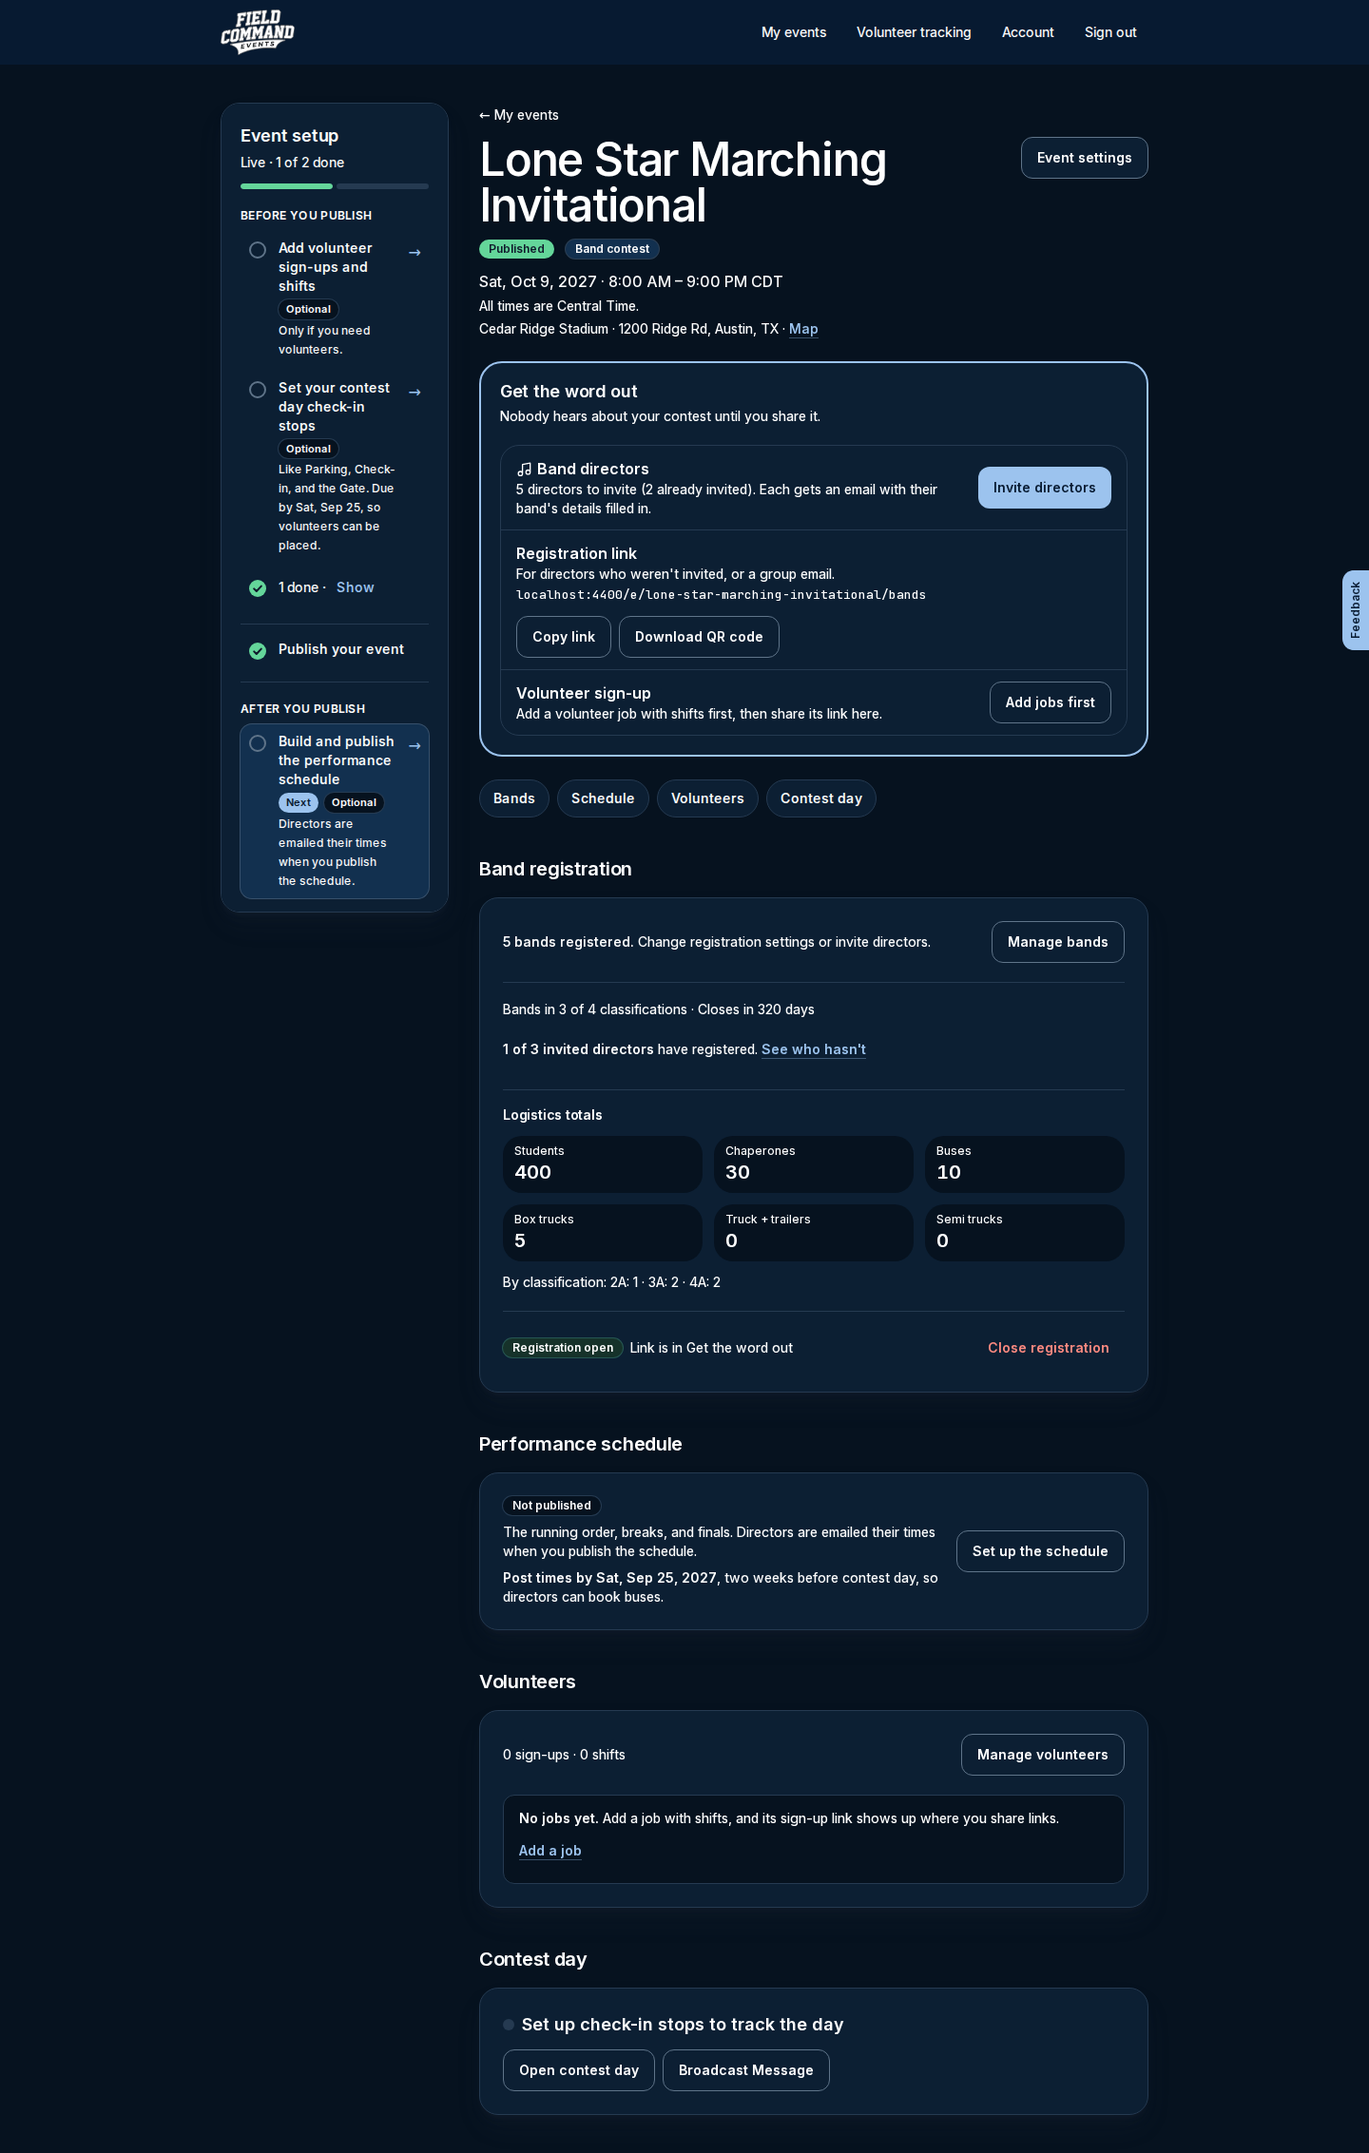
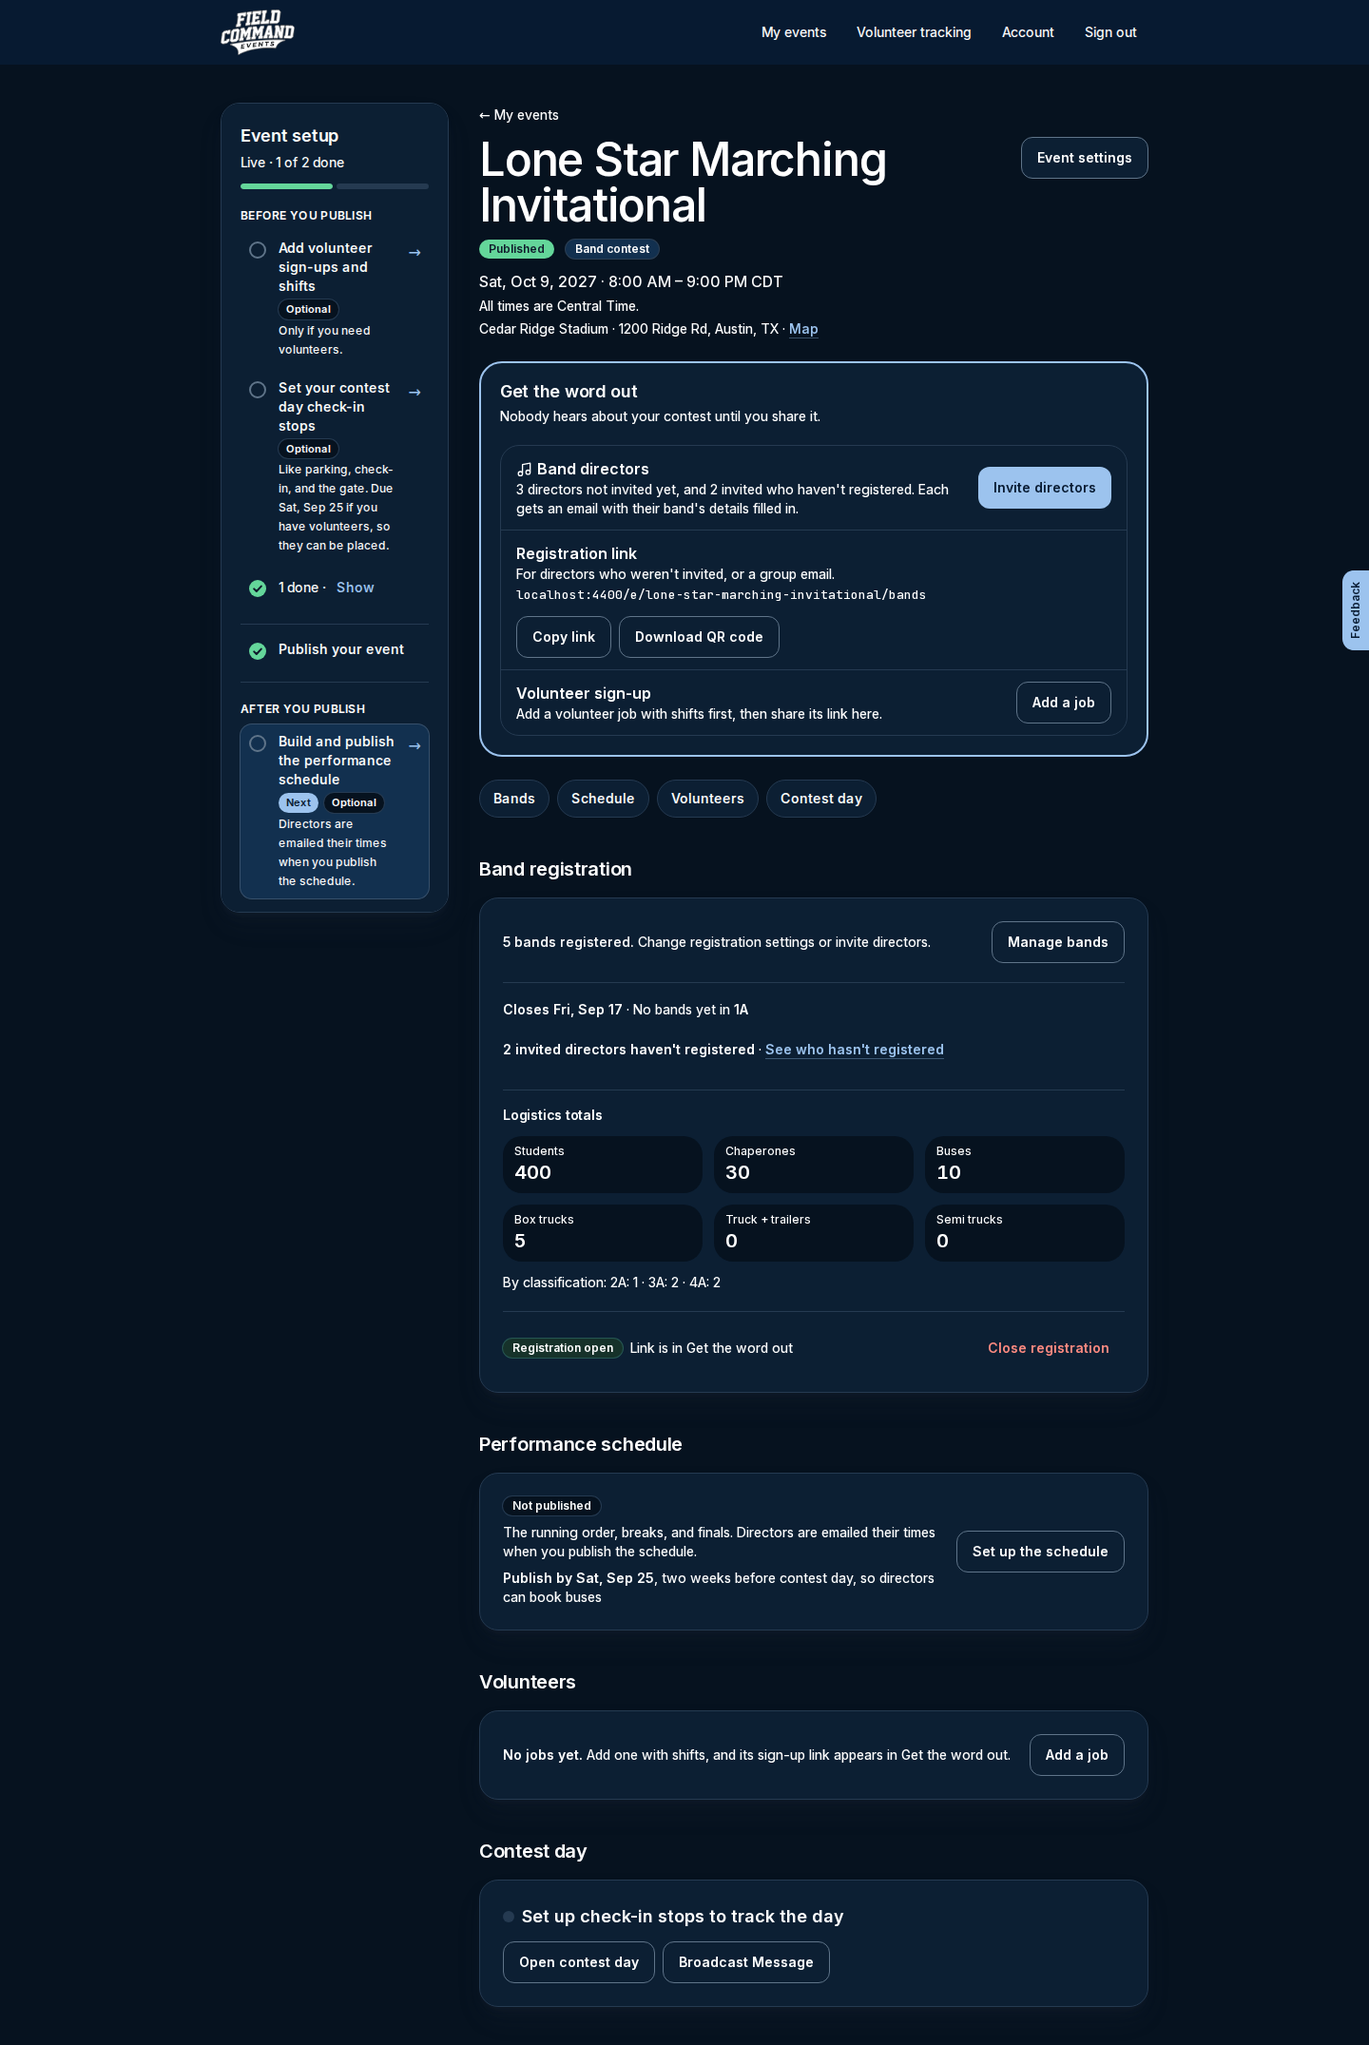
Event page light-check fixes: one invited count, named empty classification, closing date, Publish by, check-in due wording, Volunteers Add a job
Claude-Session: https://claude.ai/code/session_012QSAnYf9D3RQG6GMrYDPnP

diff --git a/src/app/dashboard/events/[eventId]/page.tsx b/src/app/dashboard/events/[eventId]/page.tsx
@@ -366,6 +366,20 @@ export default async function EventPage({ params, searchParams }: PageProps<"/da
   const contestLive = published && event.event_type === "band_contest" && access.isHost;
   const inviteable = contestLive ? await countInviteable(eventId) : null;
   const regLater = contestLive && event.band_registration_open && opensLater(event) ? event.band_registration_opens_on : null;
+  // The registration card's facts for a live contest (none when there's nothing to say).
+  const regFacts = (() => {
+    if (!contestLive || !inviteable) return null;
+    const classes = (event.classifications ?? []) as string[];
+    const empty = classes.filter((c) => !bands.some((b) => b.classification === c));
+    const closing = event.band_registration_deadline && (registrationIsOpen(event) || regLater) ? closesOn(event.band_registration_deadline, today) : null;
+    const classLine =
+      bands.length > 0 && classes.length > 1
+        ? empty.length
+          ? <>No {words.many} yet in <span className="font-semibold">{listAnd(empty)}</span></>
+          : `${words.Many} in every classification`
+        : null;
+    return closing || classLine || inviteable.waiting ? { closing, classLine, waiting: inviteable.waiting } : null;
+  })();
   const daysToGo = Math.round((Date.parse(event.starts_on) - Date.parse(today)) / 864e5);
   const words2 = leadWords(event.event_type);
 
@@ -677,7 +691,9 @@ export default async function EventPage({ params, searchParams }: PageProps<"/da
               {access.isHost
                 ? event.event_type === "band_contest"
                   ? published
-                    ? "Change registration settings or invite directors."
+                    ? registrationIsOpen(event) || regLater
+                      ? "Change registration settings or invite directors."
+                      : "Change registration settings."
                     : setup?.registrationOpensOn
                       ? `Registration opens ${formatDate(setup.registrationOpensOn, { year: undefined })}.`
                       : "Registration opens when you publish."
@@ -700,32 +716,30 @@ export default async function EventPage({ params, searchParams }: PageProps<"/da
             )}
           </div>
         </div>
-        {contestLive && inviteable && (
-          // A live contest's registration at a glance: where bands are, when it closes, and who hasn't answered.
+        {regFacts && (
+          // A live contest's registration at a glance: when it closes, where bands are missing, and who hasn't answered.
           <div className="space-y-2 border-t border-border pt-4 text-sm leading-6">
-            <p>
-              {[
-                (event.classifications ?? []).length
-                  ? `Bands in ${new Set(bands.map((b) => b.classification)).size} of ${(event.classifications ?? []).length} classifications`
-                  : null,
-                registrationIsOpen(event) && event.band_registration_deadline ? closesIn(event.band_registration_deadline, today) : null,
-              ]
-                .filter(Boolean)
-                .join(" · ")}
-            </p>
-            {inviteable.sent > 0 && (
+            {(regFacts.closing || regFacts.classLine) && (
+              <p>
+                {regFacts.closing && <span className="font-semibold">{regFacts.closing}</span>}
+                {regFacts.closing && regFacts.classLine && " · "}
+                {regFacts.classLine}
+              </p>
+            )}
+            {regFacts.waiting > 0 && (
               <p>
                 <span className="font-semibold">
-                  {inviteable.sentRegistered} of {inviteable.sent} invited directors
-                </span>{" "}
-                have registered.
-                {inviteable.sent > inviteable.sentRegistered && (
+                  {regFacts.waiting} invited {regFacts.waiting === 1 ? "director hasn't" : "directors haven't"} registered
+                </span>
+                {registrationIsOpen(event) ? (
                   <>
-                    {" "}
+                    {" · "}
                     <Link href={`/dashboard/events/${eventId}/bands?tab=invite`} className="inline-flex min-h-11 items-center font-semibold text-brand underline underline-offset-4">
-                      See who hasn&apos;t
+                      See who hasn&apos;t registered
                     </Link>
                   </>
+                ) : regLater ? null : (
+                  <span className="text-muted"> · Reopen registration to remind them</span>
                 )}
               </p>
             )}
@@ -787,8 +801,8 @@ export default async function EventPage({ params, searchParams }: PageProps<"/da
             {event.event_type === "band_contest" && published && !event.performance_order_published && !past && (
               // When to post times by, and why: directors book buses from them.
               <span className="basis-full text-sm">
-                <span className="font-semibold">Post times by {formatDate(twoWeeksBefore(event.starts_on))}</span>
-                <span className="text-muted">, two weeks before contest day, so directors can book buses.</span>
+                <span className="font-semibold">Publish by {formatDate(twoWeeksBefore(event.starts_on), { year: undefined })}</span>
+                <span className="text-muted">, two weeks before contest day, so directors can book buses</span>
               </span>
             )}
           </div>
@@ -801,6 +815,8 @@ export default async function EventPage({ params, searchParams }: PageProps<"/da
 
   // A published volunteer event's jobs with no shift or thing to bring (hosts only, from the setup facts).
   const liveEmpty = published && event.event_type === "volunteer" ? (setup?.emptyJobs ?? []) : [];
+  // A published event with no volunteer jobs at all: the card's button becomes "Add a job".
+  const noJobsYet = published && stations.length === 0;
   const volunteers =
     access.canManage && !conferenceHere ? (
       <PageSection id="volunteers" title="Volunteers">
@@ -813,14 +829,23 @@ export default async function EventPage({ params, searchParams }: PageProps<"/da
                   {!published ? "Event not published" : event.volunteer_signup_open ? "Sign-up open" : "Sign-up closed"}
                 </Badge>
               )}
+              {!noJobsYet && (
               <span className="text-sm text-muted">
                 {event.event_type === "volunteer"
                   ? `${stations.length} ${stations.length === 1 ? "job" : "jobs"}${liveEmpty.length ? ` · ${liveEmpty.length} not on the sign-up page yet` : ""}`
                   : `${stations.length} sign-up${stations.length === 1 ? "" : "s"} · ${(shifts ?? []).length} shift${(shifts ?? []).length === 1 ? "" : "s"}`}
               </span>
+              )}
+              {noJobsYet && (
+                // Nothing to sign up for yet: say so, not "Sign-up open" or a row of zeros.
+                <p className="text-sm leading-6">
+                  <span className="font-semibold">No jobs yet.</span>{" "}
+                  <span className="text-muted">Add one with shifts, and its sign-up link appears in {contestLive ? "Get the word out" : "Links to share"}.</span>
+                </p>
+              )}
             </div>
             <Link href={`/dashboard/events/${eventId}/volunteering`} className={BTN_OUTLINE}>
-              {event.event_type === "volunteer" ? "Jobs and shifts" : "Manage volunteers"}
+              {noJobsYet ? "Add a job" : event.event_type === "volunteer" ? "Jobs and shifts" : "Manage volunteers"}
             </Link>
           </div>
           {/* Live, with a job nobody can sign up for yet: say so where the organizer checks in, with the fix. */}
@@ -845,16 +870,7 @@ export default async function EventPage({ params, searchParams }: PageProps<"/da
               </ul>
             </div>
           )}
-          {stations.length === 0 && published ? (
-            // Nothing to sign up for yet: say so, not "Sign-up open".
-            <p className="rounded-md border border-border bg-background px-4 py-3 text-sm leading-6">
-              <span className="font-semibold">No jobs yet.</span>{" "}
-              <span className="text-muted">Add a job with shifts, and its sign-up link shows up where you share links.</span>{" "}
-              <Link href={`/dashboard/events/${eventId}/volunteering`} className="inline-flex min-h-11 items-center font-semibold text-brand underline underline-offset-4">
-                Add a job
-              </Link>
-            </p>
-          ) : (
+          {!noJobsYet && (
           <VolunteerStats
             filled={signedUp}
             capacity={totalSlots}
@@ -1276,16 +1292,16 @@ async function countInviteable(eventId: string) {
       ...((imported ?? []) as { email: string }[]).map((p) => p.email.toLowerCase()),
     ].filter((e) => !registered.has(e)),
   );
-  // Invited, of the people who can still be invited (one who registered isn't counted).
-  const invitedHere = ((invited ?? []) as { email: string }[]).filter((i) => people.has(i.email.toLowerCase())).length;
-  // Of the directors actually emailed, how many have registered since.
-  const sentTo = ((invited ?? []) as { email: string; sent_at: string | null }[]).filter((i) => i.sent_at).map((i) => i.email.toLowerCase());
+  const rows = (invited ?? []) as { email: string; sent_at: string | null }[];
+  const hasInvite = new Set(rows.map((i) => i.email.toLowerCase()));
+  // One count, used by both cards: directors emailed an invitation who haven't registered yet.
+  const waiting = new Set(rows.filter((i) => i.sent_at && !registered.has(i.email.toLowerCase())).map((i) => i.email.toLowerCase())).size;
   return {
     people: people.size,
-    invited: invitedHere,
+    /** Can be invited and haven't been (an invitation waiting for opening day counts as invited). */
+    notInvited: [...people].filter((e) => !hasInvite.has(e)).length,
+    waiting,
     earlier: ((past ?? []) as unknown[]).length,
-    sent: sentTo.length,
-    sentRegistered: sentTo.filter((e) => registered.has(e)).length,
   };
 }
 
@@ -1311,7 +1327,7 @@ function GetTheWordOut({
   slug: string;
   rows: ShareRow[];
   qrs: (string | null)[];
-  inviteable: { people: number; invited: number; earlier: number; sent: number; sentRegistered: number };
+  inviteable: { people: number; notInvited: number; waiting: number; earlier: number };
   opensOn: string | null;
   justPublished: boolean;
   deadline: string | null;
@@ -1375,7 +1391,7 @@ function GetTheWordOut({
                     ? `Choose directors now, and their invitations go out on ${short(opensOn)}, when registration opens.`
                     : `Have last year's director list? Import it now, and invitations go out on ${short(opensOn)}.`
                   : inviteable.people > 0
-                    ? `${inviteable.people} ${inviteable.people === 1 ? "director" : "directors"} to invite${inviteable.invited ? ` (${inviteable.invited} already invited)` : ""}. Each gets an email with their band's details filled in.`
+                    ? `${inviteable.notInvited} ${inviteable.notInvited === 1 ? "director" : "directors"} not invited yet${inviteable.waiting ? `, and ${inviteable.waiting} invited who haven't registered` : ""}. Each gets an email with their band's details filled in.`
                     : "Have last year's director list? Import it from a spreadsheet, then invite everyone at once."}
               </p>
             </div>
@@ -1395,7 +1411,7 @@ function GetTheWordOut({
                 <p className="text-sm text-muted">Add a volunteer job with shifts first, then share its link here.</p>
               </div>
               <Link href={`${base}/volunteering`} className={`${linkClass} shrink-0`}>
-                Add jobs first
+                Add a job
               </Link>
             </li>
           )}
@@ -1406,10 +1422,16 @@ function GetTheWordOut({
   );
 }
 
-/** "Closes in 9 days" (or today, or tomorrow), from the deadline day in the event's time zone. */
-function closesIn(deadline: string, today: string) {
+/** "Closes Sat, Aug 28", or in the last two weeks "Closes in 9 days" (or today, or tomorrow), in the event's time zone. */
+function closesOn(deadline: string, today: string) {
   const days = Math.round((Date.parse(deadline) - Date.parse(today)) / 864e5);
+  if (days > 14) return `Closes ${formatDate(deadline, { year: undefined })}`;
   return days <= 0 ? "Closes at the end of today" : days === 1 ? "Closes at the end of tomorrow" : `Closes in ${days} days`;
+}
+
+/** "5A", "4A and 5A", "3A, 4A, and 5A". */
+function listAnd(items: string[]) {
+  return items.length < 3 ? items.join(" and ") : `${items.slice(0, -1).join(", ")}, and ${items[items.length - 1]}`;
 }
 
 type ShareRow = {

diff --git a/src/lib/setup-checklist.ts b/src/lib/setup-checklist.ts
@@ -180,8 +180,8 @@ export function setupChecklist(f: SetupFacts): SetupChecklist {
         id: "check-in",
         label: "Set your contest day check-in stops",
         hint: f.startsOn
-          ? `Like Parking, Check-in, and the Gate. Due by ${formatDate(twoWeeksBefore(f.startsOn), { year: undefined })}, so volunteers can be placed.`
-          : "Like Parking, Check-in, and the Gate.",
+          ? `Like parking, check-in, and the gate. Due ${formatDate(twoWeeksBefore(f.startsOn), { year: undefined })} if you have volunteers, so they can be placed.`
+          : "Like parking, check-in, and the gate.",
         href: `${base}/volunteering`,
         done: f.checkInStops > 0,
         required: false,

diff --git a/docs/design-decisions/2026-10-30-band-contest-mockups.md b/docs/design-decisions/2026-10-30-band-contest-mockups.md
@@ -41,3 +41,19 @@ Review: docs/design-reviews/2026-10-30-band-contest-mockups-v2.md
 | # | Finding | Severity | Decision | Notes |
 |---|---|---|---|---|
 | — | Band contests' event page as a separate stage-bar dashboard (stage bar, one main card, "Before contest day", "Your contest" grid) | — | Fix it differently | Owner: one dashboard for every event type. Band contests keep the shared event page; the mock-ups' useful facts (registration counts, invited who haven't registered, "post times by" with the reason, check-in stops due date) go into the existing cards and checklist. Supersedes decisions 5 and light-check 1 above for the event page layout |
+
+## PR3 light check (2026-11-03)
+
+Review: Content Manager, UX Designer, UI Designer, and the usability consultant, on the screenshots in
+docs/design-reviews/2026-11-03-band-pr3/ (open, closed, and opens-later states).
+
+| # | Finding | Severity | Decision | Notes |
+|---|---|---|---|---|
+| 1 | Invited counts disagree between Get the word out and Band registration | 3 | Take the advice | One count from one helper: "N invited directors haven't registered". Get the word out says "N not invited yet, and N invited who haven't registered" |
+| — | "See who hasn't" and "invite directors" while registration is closed | 2 | Take the advice | Closed: "Reopen registration to remind them", and the summary drops "or invite directors" |
+| — | "Bands in 3 of 4 classifications" doesn't name the empty one | 2 | Take the advice | "No bands yet in 1A"; hidden with no bands or one classification |
+| — | "Closes in 320 days" | 2 | Take the advice | "Closes Fri, Sep 17", bold; "Closes in N days" only in the last two weeks; shown in the opens-later state too |
+| — | "Post times by …, 2027" | 2 | Take the advice | "Publish by Sat, Sep 25, two weeks before contest day, so directors can book buses" |
+| — | Check-in stops step: "Optional" next to "Due by" | 2 | Take the advice | "Like parking, check-in, and the gate. Due Sat, Sep 25 if you have volunteers, so they can be placed." |
+| — | Volunteers card says "no jobs" twice; inline "Add a job" easy to miss; box inside a card | 1–2 | Take the advice | No zero-count line; "No jobs yet" sentence; the card's button becomes "Add a job"; no nested box |
+| — | "Add jobs first" vs "Add a job" | 1 | Take the advice | Both say "Add a job" |

diff --git a/docs/design-lessons.md b/docs/design-lessons.md
@@ -22,7 +22,10 @@ per page and shown from that one result. Don't repeat the same fact in three pla
 - **Why:** the moment two numbers disagree, people trust neither.
 - **Seen in:** event setup (four different step counts), My events (three names for what ended),
   volunteer jobs v1 (totals: "2 of 8" vs "2 of 20"), band contest v2 ("0 bands" next to
-  "12 registered", 8 of 8 reviewers).
+  "12 registered", 8 of 8 reviewers), band PR3 ("2 already invited" in one card, "1 of 3 invited"
+  in the next: both true, counted differently, 4 of 4 reviewers).
+- **Same word, same count:** if two cards say "invited", they count the same people. Define the
+  count once, in one helper, and say what it is ("invited who haven't registered").
 - **Mock-ups too:** sample data follows one timeline. Check every number against every other screen.
 
 ## L2. Design every state, not just the happy one
